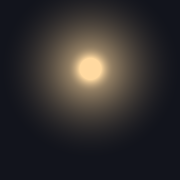
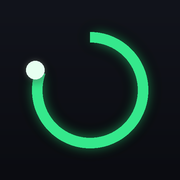
앱 아이콘을 초록 타이머 링 디자인으로 교체

diff --git a/sw.js b/sw.js
@@ -1,4 +1,4 @@
-const CACHE = 'motion-timer-v7';
+const CACHE = 'motion-timer-v8';
 const ASSETS = [
   './',
   './index.html',
